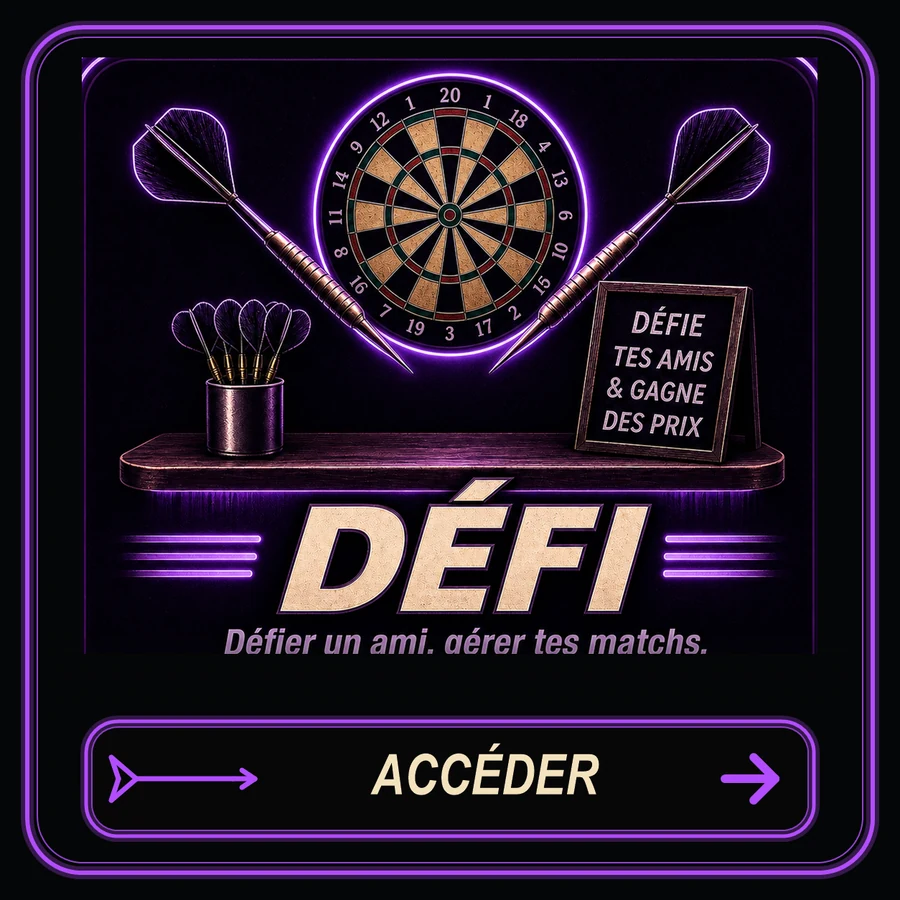
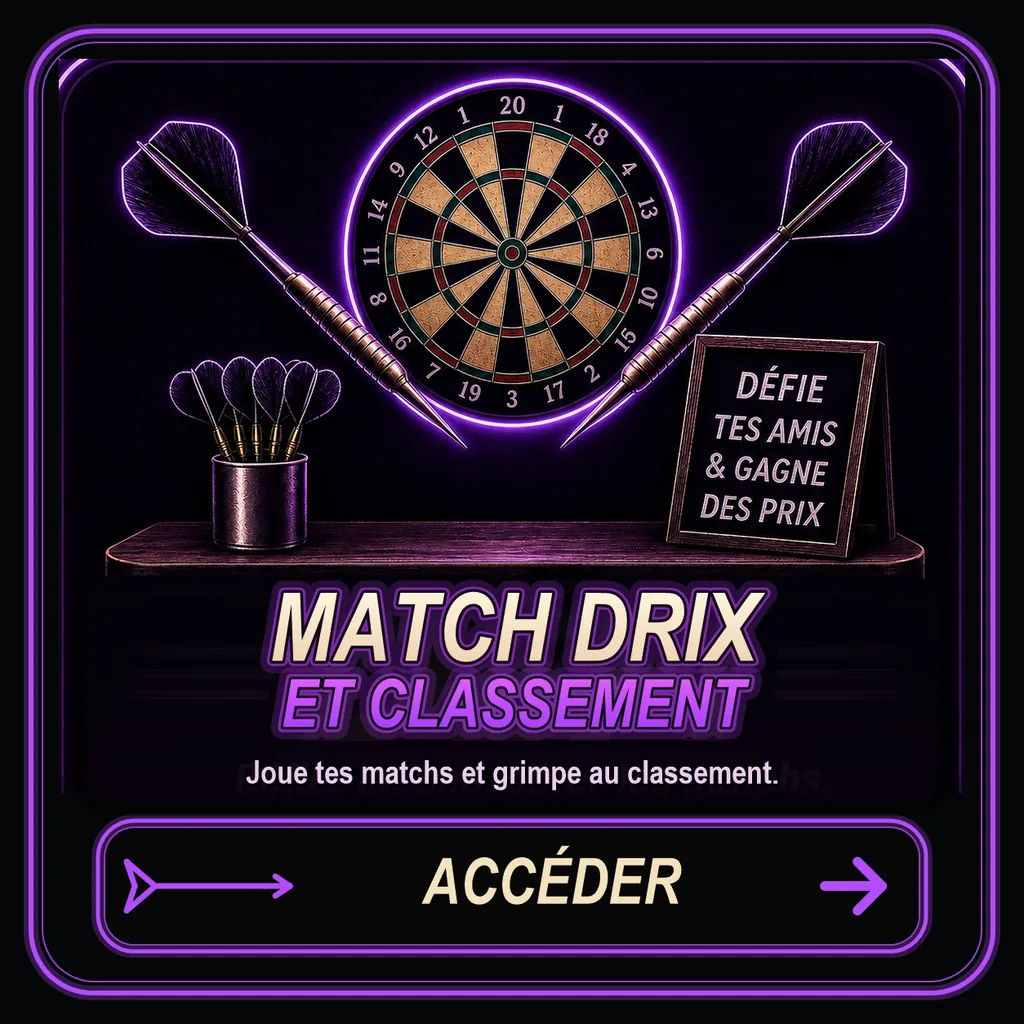
Boutons : page Défis en images, tableau de bord réorganisé
── PAGE DÉFIS ──────────────────────────────────────────────────────────────
Les 3 boutons deviennent des images fournies par Thomas, taillées EXACTEMENT au
format mesuré du bouton (1666x428 pour 166,6x42,8 réels, 3432x424 pour 343,2x42,4).
Le texte étant DANS l'image, l'onglet actif ne peut plus se signaler par une
couleur de fond : il prend un halo orange, et `aria-label` porte le nom lisible
à voix haute.

Le bandeau « Défis » en tête de page est retiré : il répétait un DRIX déjà visible
dans la barre du haut, sur le tableau de bord et dans la Rivalité hebdo.

── TABLEAU DE BORD ─────────────────────────────────────────────────────────
« Défi » devient « Match DRIX et classement ». Le bouton « Classement DRIX »
est supprimé : il faisait doublon avec celui-ci, et la page Défis a désormais
son propre raccourci vers le classement.

Le 501 quitte le bandeau du haut pour un carré à droite de Mini jeux. Résultat :
1 bandeau + 4 carrés, plus aucune case vide — le carré orphelin qu'on déplaçait
depuis trois essais disparaît enfin.

── POIDS ───────────────────────────────────────────────────────────────────
Toutes les images converties en WebP : 2,7 Mo -> 0,11 Mo pour la page Défis,
3,4 Mo -> 136 Ko pour le 501, 1,8 Mo -> 100 Ko pour Match DRIX.

Réserve : le sous-titre du 501 annonce « Tournois… » alors que le bouton ouvre
le Scoreur, qui n'en propose pas. Signalé à Thomas.

Changed region(s): [[0.0311, 0.0311, 0.9644, 0.7778]]

diff --git a/src/App.jsx b/src/App.jsx
@@ -1733,10 +1733,6 @@ const HomeDashboard = ({ joueur, setJoueur, setPage, bars, defisCount, demandesA
           En dessous, les ANCIENS boutons carrés, 2 par ligne, inchangés.
           Le texte est dessiné DANS l'image : `label` porte ce qu'il faut lire à voix haute. */}
       <div style={{ display:"grid",gridTemplateColumns:"1fr",gap:10,marginBottom:10 }}>
-        {/* Ce bandeau REMPLACE l'ancien bouton carré « Scoreur » : même destination. */}
-        <ImgBtn src="/tableau-bord/501.webp" ratio="22.5%" priorite
-          label="501, 301, Cricket, Capital — lance une partie rapide au scoreur"
-          onClick={()=>setPage("jeux-flechettes")}/>
         <ImgBtn src="/tableau-bord/trouve-ton-spot.webp" ratio="22.5%" priorite
           label="Trouve ton spot — les bars à fléchettes près de chez toi"
           onClick={()=>setPage("bars")}/>
@@ -1744,12 +1740,14 @@ const HomeDashboard = ({ joueur, setJoueur, setPage, bars, defisCount, demandesA
       <div style={{ display:"grid",gridTemplateColumns:"1fr 1fr",gap:10 }}>
         <ImgBtn src="/accueil/comptoir.webp"   label="Le Comptoir — scores, discussions et actus" priorite
           onClick={()=>setPage("communaute")}/>
-        <ImgBtn src="/accueil/defi.webp"       label="Défi — défie un ami, gère tes matchs et gagne des DRIX"
+        <ImgBtn src="/accueil/defi.webp"       label="Match DRIX et classement — joue tes matchs et grimpe au classement"
           onClick={()=>setPage("defi")} badge={defisCount}/>
-        <ImgBtn src="/accueil/classement.webp" label="Classement DRIX — découvre les meilleurs joueurs et grimpe dans le classement"
-          onClick={()=>setPage("drix")}/>
         <ImgBtn src="/accueil/mini-jeux.webp"  label="Mini jeux et défi quotidien — pour jouer, progresser et s'amuser"
           onClick={()=>setPage("jeux-sans")}/>
+        {/* Remplace l'ancien bouton carré « Scoreur » : même destination, et il comble la
+            case qui restait vide à droite de Mini jeux. */}
+        <ImgBtn src="/accueil/lance-une-partie.webp" label="Lance une partie — 501, Cricket, Capital, tournois"
+          onClick={()=>setPage("jeux-flechettes")}/>
       </div>
 
       {/* ── Feedback CTA esport — signaler bug / améliorations ── */}
@@ -2511,29 +2509,6 @@ const PageDefi = ({ joueur, setPage }) => {
 
       <button onClick={()=>setPage("home")} style={{ background:"none",border:"none",color:C.muted,cursor:"pointer",marginBottom:8,fontSize:13,display:"flex",alignItems:"center",gap:6,padding:"10px 6px",minHeight:44,touchAction:"manipulation" }}><ArrowLeft size={16}/> Accueil</button>
 
-      {/* ── Hero header ── */}
-      <div style={{ position:"relative",overflow:"hidden",background:"linear-gradient(135deg,#0d0010 0%,#0a0a0f 60%,#001012 100%)",border:"1px solid rgba(168,85,247,0.2)",borderRadius:20,padding:"22px 20px",marginBottom:20 }}>
-        <div style={{ position:"absolute",top:-40,right:-20,width:160,height:160,borderRadius:"50%",background:"radial-gradient(circle,rgba(168,85,247,0.15) 0%,transparent 70%)",pointerEvents:"none" }}/>
-        <div style={{ position:"absolute",bottom:-30,left:-10,width:120,height:120,borderRadius:"50%",background:"radial-gradient(circle,rgba(249,115,22,0.1) 0%,transparent 70%)",pointerEvents:"none" }}/>
-        <div style={{ position:"absolute",inset:0,background:"linear-gradient(105deg,transparent 40%,rgba(255,255,255,0.025) 50%,transparent 60%)",animation:"defisShine 9s ease infinite",pointerEvents:"none" }}/>
-        <div style={{ position:"relative",display:"flex",alignItems:"center",gap:14 }}>
-          <div style={{ width:52,height:52,borderRadius:16,background:"linear-gradient(135deg,#a78bfa,#7c3aed)",display:"flex",alignItems:"center",justifyContent:"center",boxShadow:"0 0 30px rgba(168,85,247,0.45)",flexShrink:0 }}>
-            <Swords size={24} color="#fff"/>
-          </div>
-          <div style={{ flex:1 }}>
-            <h1 style={{ fontWeight:900,fontSize:24,margin:0,letterSpacing:-.3 }}>Défis</h1>
-            <p style={{ color:C.muted,fontSize:12,margin:"4px 0 0",display:"flex",alignItems:"center",gap:6,flexWrap:"wrap" }}>
-              {rivaliteHebdo && <span style={{ background:"#a78bfa22",color:"#d8b4fe",padding:"1px 8px",borderRadius:20,fontSize:11,fontWeight:700 }}><EmoText s="⚔ Rivalité active" size={10} gap={4}/></span>}
-              <span>{amis.length} ami{amis.length!==1?"s":""}</span>
-            </p>
-          </div>
-          <div style={{ textAlign:"right",flexShrink:0 }}>
-            <div style={{ fontSize:22,fontWeight:900,color:"#f97316",lineHeight:1 }}>{joueur.drix||1000}</div>
-            <div style={{ fontSize:9,color:C.muted,fontWeight:700,letterSpacing:1 }}>DRIX</div>
-          </div>
-        </div>
-      </div>
-
       {/* ── Défi hebdo verrouillé ── */}
       {(amis.length < 10 || !joueur.asso_slug) && !hideAssoLock && (
         <div style={{ background:"#f9731608",border:"1px solid #f9731633",borderRadius:14,padding:"14px 16px",marginBottom:16 }}>
@@ -2564,35 +2539,39 @@ const PageDefi = ({ joueur, setPage }) => {
         </div>
       )}
 
-      {/* ── Toggle 1v1 / Doublette ── */}
-      <div style={{ display:"flex",gap:10,marginBottom:20 }}>
-        <button onClick={()=>setTab("1v1")} style={{
-          flex:1, padding:"13px 0", border:"none", cursor:"pointer", fontWeight:800, fontSize:14, borderRadius:12,
-          transition:"all .15s",
-          background: tab==="1v1"
-            ? "linear-gradient(150deg,#fb923c 0%,#f97316 45%,#ea580c 100%)"
-            : "linear-gradient(160deg,#1c1c24,#141419)",
-          color: tab==="1v1" ? "#fff" : C.muted,
-          boxShadow: tab==="1v1"
-            ? "0 4px 0 -1px #9a3412, 0 12px 24px -12px rgba(249,115,22,0.7), 0 0 18px rgba(249,115,22,0.26), inset 0 1px 0 #ffffff5e"
-            : "0 3px 0 -1px #0a0a0a, 0 8px 18px -10px #000000e6, inset 0 1px 0 #ffffff12",
-          transform: tab==="1v1" ? "translateY(0)" : "translateY(-2px)",
-          letterSpacing:.3, display:"flex", alignItems:"center", justifyContent:"center", gap:7,
-        }}><Swords size={14}/>Défier un ami</button>
-        <button onClick={()=>setTab("doublette")} style={{
-          flex:1, padding:"13px 0", border:"none", cursor:"pointer", fontWeight:800, fontSize:14, borderRadius:12,
-          transition:"all .15s",
-          background: tab==="doublette"
-            ? "linear-gradient(150deg,#c4b5fd 0%,#a78bfa 45%,#7c3aed 100%)"
-            : "linear-gradient(160deg,#1c1c24,#141419)",
-          color: tab==="doublette" ? "#fff" : C.muted,
-          boxShadow: tab==="doublette"
-            ? "0 4px 0 -1px #4c1d95, 0 12px 24px -12px rgba(124,58,237,0.7), 0 0 18px rgba(168,85,247,0.26), inset 0 1px 0 #ffffff5e"
-            : "0 3px 0 -1px #0a0a0a, 0 8px 18px -10px #000000e6, inset 0 1px 0 #ffffff12",
-          transform: tab==="doublette" ? "translateY(0)" : "translateY(-2px)",
-          letterSpacing:.3, display:"flex", alignItems:"center", justifyContent:"center", gap:7,
-        }}><Users size={14}/>Doublette 2v2</button>
+      {/* Onglets « Défier un ami » / « Doublette 2v2 » — images fournies par Thomas, taillées
+          EXACTEMENT au format du bouton (1666x428 pour 166,6x42,8 réels, soit 10x).
+          Le texte est DANS l'image : `aria-label` porte ce qu'il faut lire à voix haute, et
+          l'onglet actif se signale par un halo orange, pas par une couleur de fond. */}
+      <div style={{ display:"flex",gap:10,marginBottom:10 }}>
+        {[
+          { cle:"1v1", img:"/defi/defier-un-ami.webp", label:"Défier un ami" },
+          { cle:"doublette", img:"/defi/doublette.webp", label:"Doublette 2v2" },
+        ].map((o) => {
+          const actif = tab === o.cle;
+          return (
+            <button key={o.cle} onClick={()=>setTab(o.cle)} aria-label={o.label} aria-pressed={actif}
+              style={{ flex:1, padding:0, border:"none", background:"none", cursor:"pointer",
+                borderRadius:12, overflow:"hidden", lineHeight:0, touchAction:"manipulation",
+                transition:"all .15s", opacity: actif ? 1 : .62,
+                transform: actif ? "translateY(0)" : "translateY(-2px)",
+                boxShadow: actif ? "0 0 0 2px #f97316, 0 10px 22px -12px rgba(249,115,22,.8)" : "none" }}>
+              <img src={o.img} alt="" width={1666} height={428}
+                style={{ width:"100%",height:"auto",display:"block",borderRadius:12 }}/>
+            </button>
+          );
+        })}
       </div>
+
+      {/* Raccourci vers le Classement DRIX — image pleine largeur (3432x424 pour 343,2x42,4 réels).
+          Ce n'est PAS un onglet : il quitte la page, d'où l'absence d'état actif. */}
+      <button onClick={()=>setPage("drix")} aria-label="Classement DRIX"
+        style={{ width:"100%", padding:0, border:"none", background:"none", cursor:"pointer",
+          borderRadius:12, overflow:"hidden", lineHeight:0, marginBottom:20,
+          touchAction:"manipulation", transition:"all .15s" }}>
+        <img src="/defi/classement-drix.webp" alt="" width={3432} height={424}
+          style={{ width:"100%",height:"auto",display:"block",borderRadius:12 }}/>
+      </button>
 
       {/* « Affronter un bot » a été retiré d'ici : le mode reste accessible depuis
           la Salle de jeux (carte « Affronte un bot » → page scoreur-bot). */}
